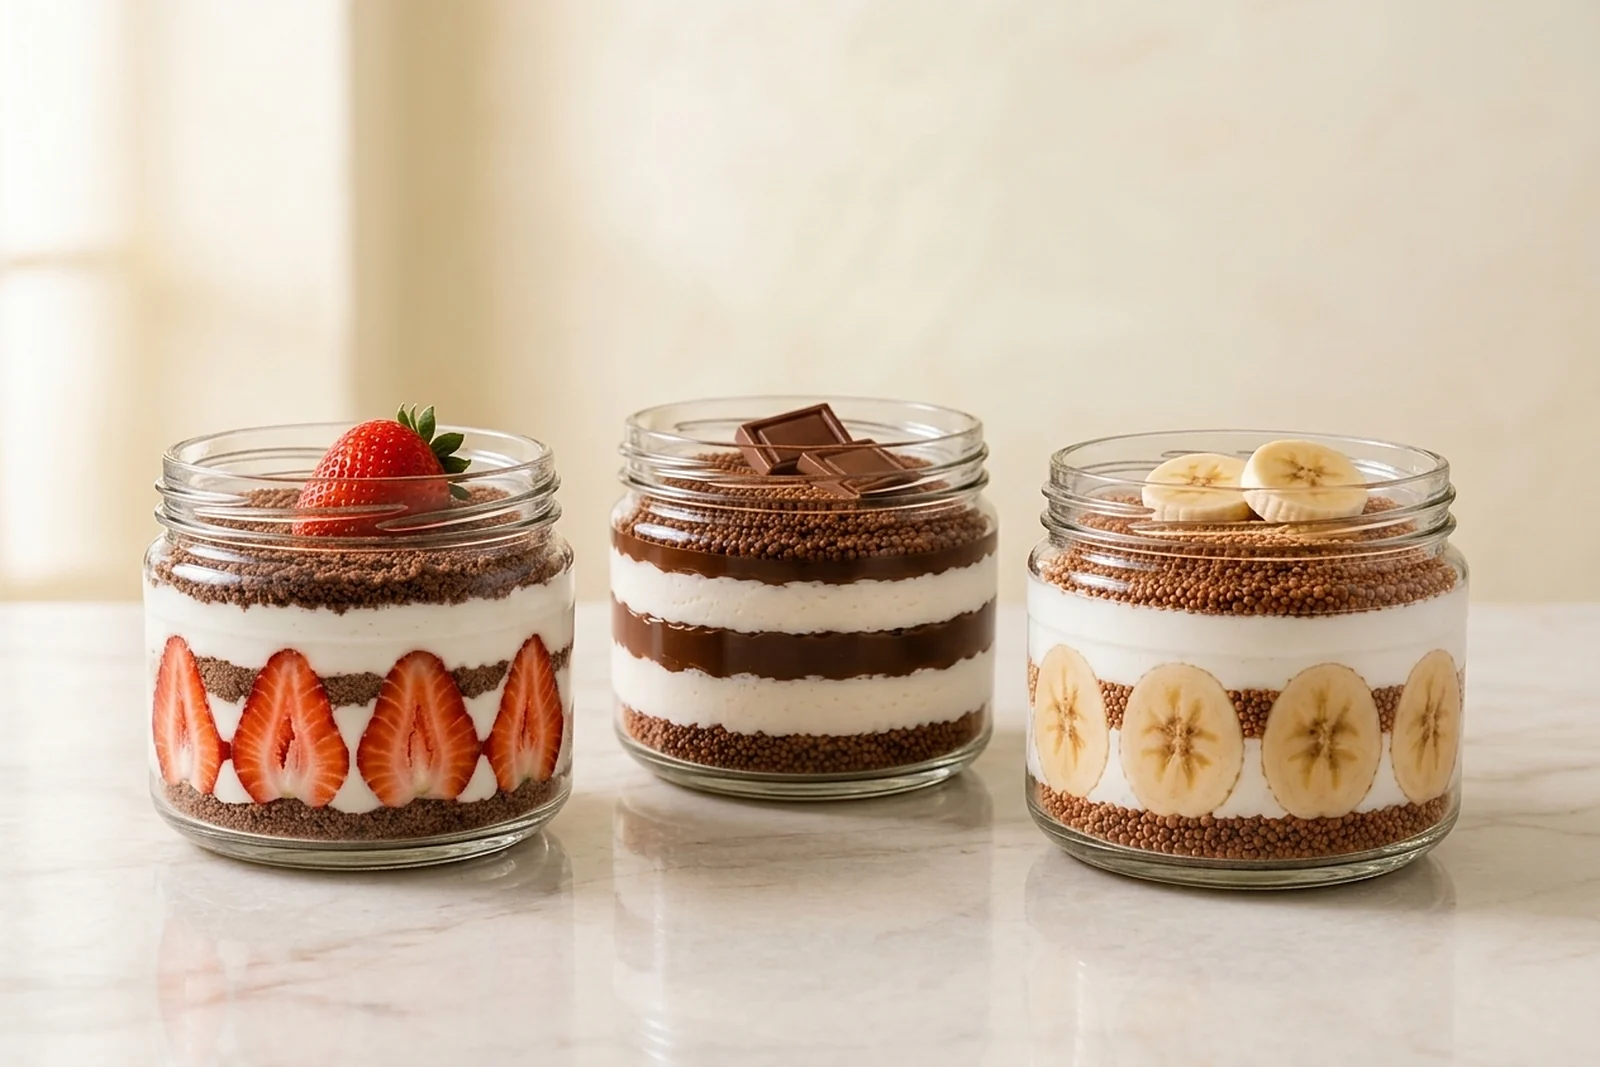
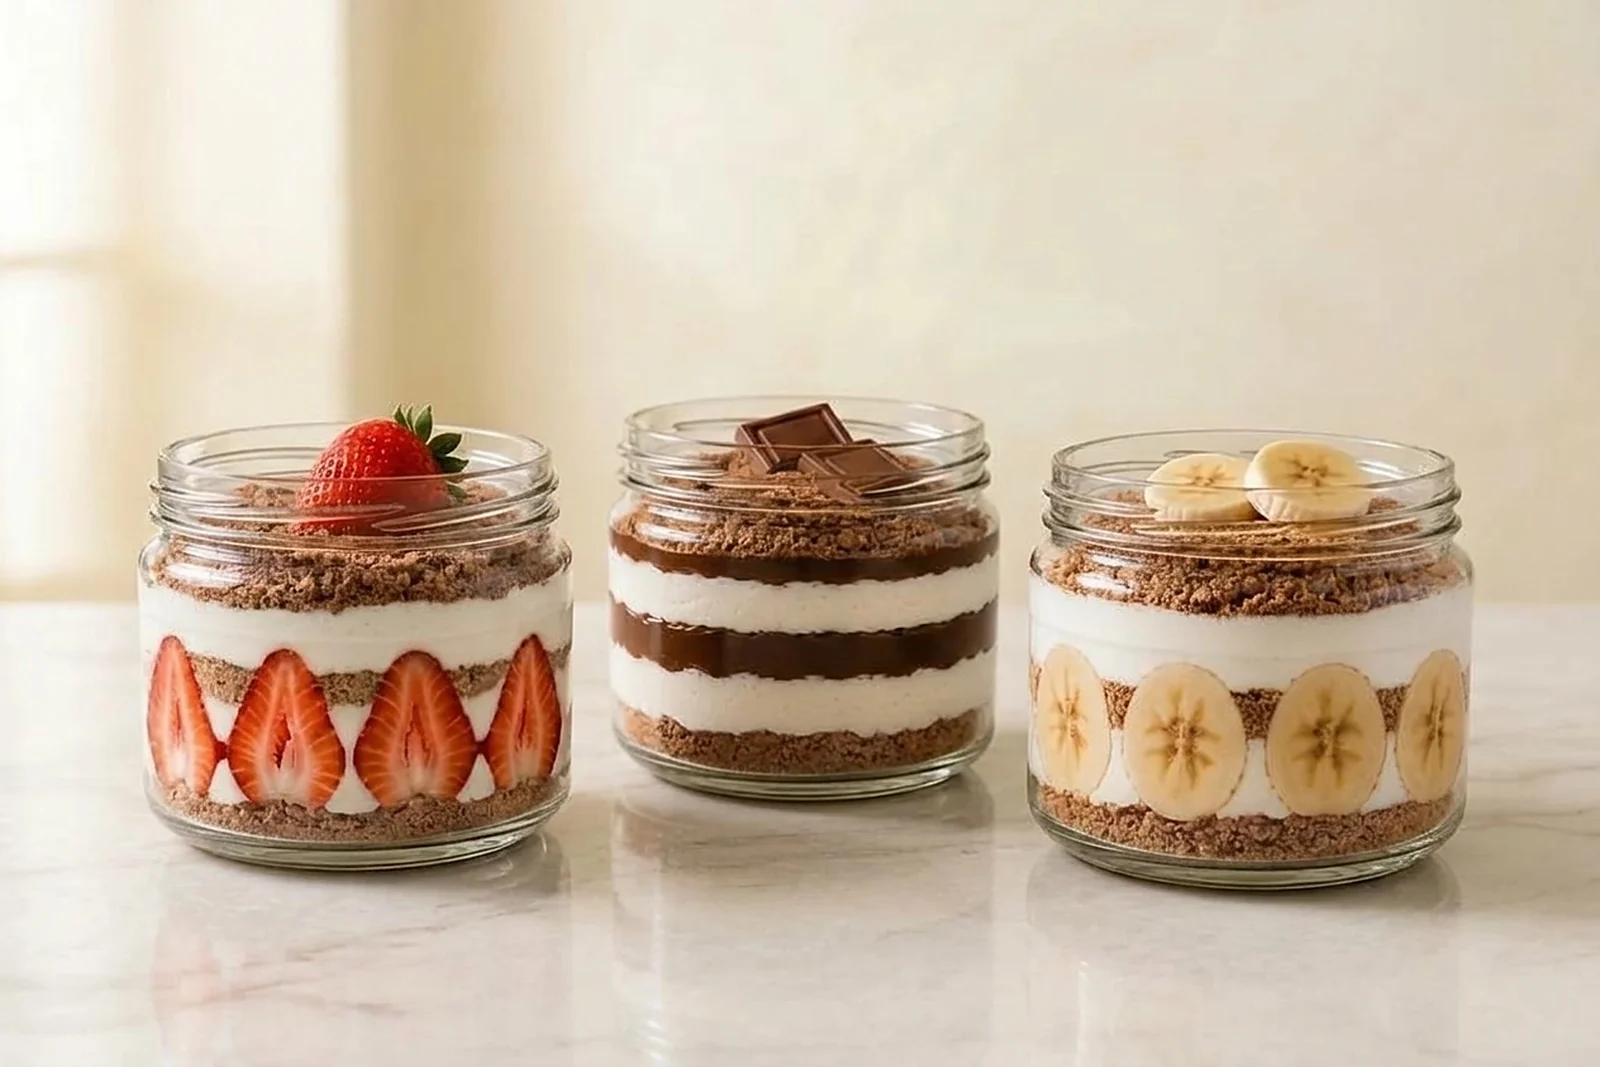
.

diff --git a/src/data/catalog.ts b/src/data/catalog.ts
@@ -14,6 +14,8 @@ export const categories: Category[] = [
   { id: 'cevizli', slug: 'cevizli', name: 'Cevizli', tagline: 'Çıtır ceviz', image: '/images/products/cevizli-magnolya.webp', tone: 'olive', order: 7, isActive: true },
   { id: 'balkabakli', slug: 'balkabakli', name: 'Balkabaklı', tagline: 'Mevsiminde güzel', image: '/images/products/balkabakli-magnolya.webp', tone: 'cream', order: 8, isActive: true },
   { id: 'red-velvet', slug: 'red-velvet', name: 'Red Velvet', tagline: 'Çilekli ve kadifemsi', image: '/images/products/cilekli-red-velvet-magnolya.webp', tone: 'blush', order: 9, isActive: true },
+  { id: 'kadayifli', slug: 'kadayifli', name: 'Kadayıflı', tagline: 'Kavrulmuş çıtır kadayıf', image: '/images/products/kadayifli-magnolya.webp', tone: 'cream', order: 10, isActive: true },
+  { id: 'meyveli', slug: 'meyveli', name: 'Meyveli', tagline: 'Limon, portakal, orman meyvesi', image: '/images/products/orman-meyveli-magnolya.webp', tone: 'blush', order: 11, isActive: true },
 ]
 
 /* ------------------------------------------------------------------ Ürünler */
@@ -351,6 +353,99 @@ const productList: Product[] = [
     isActive: true,
     isFeatured: true,
     order: 25,
+  },
+
+  /* --- Yeni ürünler (2026-11). Fiyatlar benzer ürünlere göre geçici --- */
+  {
+    id: 'orman-meyveli-magnolya',
+    slug: 'orman-meyveli-magnolya',
+    name: 'Orman Meyveli Magnolya',
+    description: 'Süt kreması, bisküvi kırıkları ve üstünde böğürtlenli orman meyvesi sosu.',
+    categoryIds: ['meyveli'],
+    price: 175,
+    image: '/images/products/orman-meyveli-magnolya.webp',
+    isActive: true,
+    isFeatured: false,
+    isNew: true,
+    order: 26,
+  },
+  {
+    id: 'limonlu-magnolya',
+    slug: 'limonlu-magnolya',
+    name: 'Limonlu Magnolya',
+    description: 'Süt kreması, bisküvi kırıkları ve üstünde ferah limon sosu.',
+    categoryIds: ['meyveli'],
+    price: 160,
+    image: '/images/products/limonlu-magnolya.webp',
+    isActive: true,
+    isFeatured: false,
+    isNew: true,
+    order: 27,
+  },
+  {
+    id: 'portakalli-magnolya',
+    slug: 'portakalli-magnolya',
+    name: 'Portakallı Magnolya',
+    description: 'Süt kreması, portakallı bisküvi kırıkları ve taze portakal dilimi.',
+    categoryIds: ['meyveli'],
+    price: 160,
+    image: '/images/products/portakalli-magnolya.webp',
+    isActive: true,
+    isFeatured: false,
+    isNew: true,
+    order: 28,
+  },
+  {
+    id: 'kadayifli-magnolya',
+    slug: 'kadayifli-magnolya',
+    name: 'Kadayıflı Magnolya',
+    description: 'Bol süt kreması, kavrulmuş çıtır kadayıf ve kadayıf tabanı.',
+    categoryIds: ['kadayifli'],
+    price: 185,
+    image: '/images/products/kadayifli-magnolya.webp',
+    isActive: true,
+    isFeatured: false,
+    isNew: true,
+    order: 29,
+  },
+  {
+    id: 'kadayifli-cikolatali-magnolya',
+    slug: 'kadayifli-cikolatali-magnolya',
+    name: 'Kadayıflı Çikolatalı Magnolya',
+    description: 'Kavrulmuş kadayıf katmanları, süt kreması ve üstünde çikolata sosu.',
+    categoryIds: ['kadayifli', 'cikolatali'],
+    price: 195,
+    image: '/images/products/kadayifli-cikolatali-magnolya.webp',
+    isActive: true,
+    isFeatured: false,
+    isNew: true,
+    order: 30,
+  },
+  {
+    id: 'lotus-soslu-magnolya',
+    slug: 'lotus-soslu-magnolya',
+    name: 'Lotus Soslu Magnolya',
+    description: 'Lotus bisküvi kırıkları, süt kreması ve üstünde akışkan Lotus sosu.',
+    categoryIds: ['lotuslu'],
+    price: 190,
+    image: '/images/products/lotus-soslu-magnolya.webp',
+    isActive: true,
+    isFeatured: false,
+    isNew: true,
+    order: 31,
+  },
+  {
+    id: 'spoonful',
+    slug: 'spoonful',
+    name: 'Spoonful',
+    description: 'Kakaolu bisküvi tabanı, bol süt kreması ve üstünde yoğun çikolatalı puding.',
+    categoryIds: ['cikolatali'],
+    price: 185,
+    image: '/images/products/spoonful.webp',
+    isActive: true,
+    isFeatured: false,
+    isNew: true,
+    order: 32,
   },
 ]
 

diff --git a/src/data/layers.ts b/src/data/layers.ts
@@ -23,6 +23,11 @@ const RV = '#cf7367' // blush-500  red velvet
 const KB = '#764a34' // cocoa-600  kakaolu bisküvi
 // Balkabağı: token'larda turuncu yok; nokta katmanı tanıtsın diye gerçek renk
 const PK = '#e3893f'
+// Yeni ürünlerin sos ve kırıkları da token'larda yok; aynı gerekçeyle gerçek renk
+const OM = '#5b2346' // orman meyvesi sosu
+const LM = '#efc94c' // limon sosu
+const PT = '#ee9a2e' // portakallı kırık
+const KD = '#c98a4b' // kavrulmuş kadayıf
 
 interface Seed {
   slug: string
@@ -211,6 +216,57 @@ const seeds: Seed[] = [
     colors: [S, CH, S, K],
     cup: { x: 72, y: [41, 49, 61, 73] },
     jar: { x: 75, y: [39, 49, 66, 81] },
+  },
+  /* --- 3. grup: 2026-11'de eklenen ürünler. Üç katmanlı olanlarda (Kadayıflı,
+         Spoonful) üstteki katman ikiye bölündü: süs ve katmanın kendisi --- */
+  {
+    slug: 'orman-meyveli-magnolya',
+    names: ['Orman meyvesi sosu', 'Magnolya kreması', 'Bisküvi kırığı', 'Bisküvi tabanı'],
+    colors: [OM, C, K, K],
+    cup: { x: 72, y: [43, 52.5, 57.5, 68] },
+    jar: { x: 74, y: [43, 52, 60, 75] },
+  },
+  {
+    slug: 'limonlu-magnolya',
+    names: ['Limon sosu', 'Magnolya kreması', 'Bisküvi kırığı', 'Bisküvi tabanı'],
+    colors: [LM, C, K, K],
+    cup: { x: 72, y: [44, 52, 57.5, 68] },
+    jar: { x: 74, y: [43, 52, 60, 75] },
+  },
+  {
+    slug: 'portakalli-magnolya',
+    names: ['Portakal dilimi', 'Magnolya kreması', 'Portakallı kırık', 'Portakallı taban'],
+    colors: [PT, C, PT, PT],
+    cup: { x: 72, y: [43, 50, 56, 69] },
+    jar: { x: 74, y: [46, 54, 61.5, 75] },
+  },
+  {
+    slug: 'kadayifli-magnolya',
+    names: ['Çıtır kadayıf', 'Kavrulmuş kadayıf', 'Magnolya kreması', 'Kadayıf tabanı'],
+    colors: [KD, KD, C, KD],
+    cup: { x: 72, y: [40, 46, 56, 68] },
+    jar: { x: 74, y: [40, 47, 60, 75] },
+  },
+  {
+    slug: 'kadayifli-cikolatali-magnolya',
+    names: ['Çikolata sosu', 'Magnolya kreması', 'Kavrulmuş kadayıf', 'Kadayıf tabanı'],
+    colors: [CH, C, KD, KD],
+    cup: { x: 72, y: [45, 52, 58, 68] },
+    jar: { x: 74, y: [47, 55, 61, 75] },
+  },
+  {
+    slug: 'lotus-soslu-magnolya',
+    names: ['Lotus sosu', 'Magnolya kreması', 'Lotus kırığı', 'Lotus tabanı'],
+    colors: [LO, C, LO, LO],
+    cup: { x: 72, y: [45, 52, 57, 68] },
+    jar: { x: 74, y: [47, 54, 61.5, 75] },
+  },
+  {
+    slug: 'spoonful',
+    names: ['Çikolata kıvrımı', 'Çikolatalı puding', 'Magnolya kreması', 'Kakaolu taban'],
+    colors: [CH, CH, C, KB],
+    cup: { x: 72, y: [40, 46, 57, 68] },
+    jar: { x: 74, y: [38, 46, 60, 73] },
   },
 ]
 

diff --git a/src/components/product/MagnolyaStage.tsx b/src/components/product/MagnolyaStage.tsx
@@ -25,6 +25,10 @@ const TONES: Record<string, [string, string]> = {
   'cikolatali-magnolya': ['#faf4f0', '#f0e3d9'],
   'lotuslu-magnolya': ['#faf4f0', '#f0e3d9'],
   'oreolu-magnolya': ['#faf5ec', '#ece0cd'],
+  'orman-meyveli-magnolya': ['#fdf3f1', '#fbe5e1'],
+  'lotus-soslu-magnolya': ['#faf4f0', '#f0e3d9'],
+  'kadayifli-cikolatali-magnolya': ['#faf4f0', '#f0e3d9'],
+  spoonful: ['#faf4f0', '#f0e3d9'],
 }
 const DEFAULT_TONE: [string, string] = ['#faf5ec', '#f4ecdf']
 

diff --git a/src/context/CatalogContext.tsx b/src/context/CatalogContext.tsx
@@ -15,7 +15,7 @@ const STORAGE_KEY = 'catalog'
  * Tohum veri her değiştiğinde artırılır. Sürüm uyuşmazsa tarayıcıda saklı
  * eski katalog atılır ve güncel menü yüklenir.
  */
-const VERSION = 12
+const VERSION = 13
 
 interface CatalogState {
   version: number

diff --git a/instagram/sablon/set-kare.py b/instagram/sablon/set-kare.py
@@ -1,0 +1,34 @@
+"""public/images/genel/<ad>.webp geniş görselinden <ad>-kare.webp (1000x1000) üretir.
+Geniş görsel 1000 genişliğe küçültülüp dikeyde ortalanır; üst boşluk duvarın üst şeridi uzatılıp yumuşatılarak,
+alt boşluk mermerin en alt 70 satırı ileri-geri yansıtılıp giderek bulanıklaştırılarak doldurulur.
+Kullanım: python3 instagram/sablon/set-kare.py ad ..."""
+import sys
+import numpy as np
+from PIL import Image, ImageFilter
+N = 1000
+for ad in sys.argv[1:]:
+    g = Image.open(f'public/images/genel/{ad}.webp').convert('RGB')
+    h = round(N * g.height / g.width); g = g.resize((N, h), Image.LANCZOS)
+    ust = (N - h) // 2; alt = N - h - ust
+    tuval = Image.new('RGB', (N, N)); tuval.paste(g, (0, ust))
+    serit = g.crop((0, 0, N, 30)).resize((N, ust + 30), Image.BICUBIC).filter(ImageFilter.GaussianBlur(4))
+    tuval.paste(serit.crop((0, 0, N, ust)), (0, 0))
+    taban = np.asarray(g.crop((0, h - 70, N, h))).astype(np.float32)
+    sira = []
+    i, yon = 69, -1
+    for _ in range(alt):  # ileri-geri yansıt
+        sira.append(i); i += yon
+        if i < 0 or i > 69: yon = -yon; i += 2 * yon
+    dolgu = taban[sira]
+    a = Image.fromarray(dolgu.clip(0, 255).astype(np.uint8))
+    b = np.asarray(a.filter(ImageFilter.GaussianBlur(8))).astype(np.float32)
+    t = np.linspace(0.3, 1, alt)[:, None, None]
+    tuval.paste(Image.fromarray((dolgu * (1 - t) + b * t).clip(0, 255).astype(np.uint8)), (0, ust + h))
+    arr = np.asarray(tuval).astype(np.float32); bl = np.asarray(tuval.filter(ImageFilter.GaussianBlur(3))).astype(np.float32)
+    for y0 in (ust, ust + h):
+        for dy in range(-6, 7):
+            y = y0 + dy
+            if 0 <= y < N:
+                w = 1 - abs(dy) / 7; arr[y] = arr[y] * (1 - w) + bl[y] * w
+    Image.fromarray(arr.clip(0, 255).astype(np.uint8)).save(f'public/images/genel/{ad}-kare.webp', 'WEBP', quality=86, method=6)
+    print(ad + '-kare', ust, alt)

diff --git a/instagram/sablon/set-yerlestir.py b/instagram/sablon/set-yerlestir.py
@@ -1,0 +1,16 @@
+"""Gemini set görselini eski görselin boyutuna getirip public/images/genel/<ad>.webp olarak yazar.
+Kullanım: python3 instagram/sablon/set-yerlestir.py ad:deneme-adi ..."""
+import sys
+from PIL import Image, ImageFilter
+for s in sys.argv[1:]:
+    ad, dn = s.split(':')
+    hedef = f'public/images/genel/{ad}.webp'
+    boy = Image.open(hedef).size
+    im = Image.open(f'yeni-gorseller/deneme/{dn}.jpg').convert('RGB')
+    w, h = im.size; r = boy[0] / boy[1]
+    if abs(w / h - r) > 0.01:  # oran farkı varsa ortadan kırp
+        if w / h > r: nw = round(h * r); im = im.crop(((w - nw) // 2, 0, (w - nw) // 2 + nw, h))
+        else: nh = round(w / r); im = im.crop((0, (h - nh) // 2, w, (h - nh) // 2 + nh))
+    im = im.resize(boy, Image.LANCZOS).filter(ImageFilter.UnsharpMask(radius=1.2, percent=40, threshold=2))
+    im.save(hedef, 'WEBP', quality=86, method=6)
+    print(ad, boy)

diff --git a/instagram/sablon/gemini-al.py b/instagram/sablon/gemini-al.py
@@ -1,0 +1,20 @@
+"""En son Gemini indirmesini yeni-gorseller/deneme/<ad>.jpg olarak alır.
+Kullanım: python3 instagram/sablon/gemini-al.py <ad> [en-fazla-saniye]"""
+import glob, os, sys, time, shutil
+from PIL import Image
+ad = sys.argv[1]; sinir = int(sys.argv[2]) if len(sys.argv) > 2 else 150
+t0 = time.time(); son = None
+while time.time() - t0 < 40:
+    fs = sorted(glob.glob(os.path.expanduser('~/Downloads/Gemini_Generated_Image_*')), key=os.path.getmtime)
+    fs = [f for f in fs if not f.endswith('.crdownload')]
+    if fs and time.time() - os.path.getmtime(fs[-1]) < sinir:
+        son = fs[-1]; break
+    time.sleep(2)
+assert son, 'yeni indirme yok'
+time.sleep(1)
+hedef = f'yeni-gorseller/deneme/{ad}.jpg'
+im = Image.open(son)
+if im.format == 'JPEG': shutil.copy(son, hedef)
+else: im.convert('RGB').save(hedef, quality=95)
+os.remove(son)
+print(ad, Image.open(hedef).size)

diff --git a/instagram/sablon/set-kiyas.py b/instagram/sablon/set-kiyas.py
@@ -1,0 +1,10 @@
+"""Set görselinin önce/sonra karşılaştırması: üstte tam görseller, altta yakın kırpım.
+Kullanım: python3 set-kiyas.py kaynak.png yeni.jpg cikti.jpg x0 y0 (yakın kırpımın kaynak koordinatı)"""
+import sys
+from PIL import Image
+a = Image.open(sys.argv[1]).convert('RGB'); b = Image.open(sys.argv[2]).convert('RGB').resize(a.size)
+x0, y0 = int(sys.argv[4]), int(sys.argv[5])
+W = Image.new('RGB', (1610, 540 + 460), 'white')
+W.paste(a.resize((800, round(800 * a.height / a.width))), (0, 0)); W.paste(b.resize((800, round(800 * a.height / a.width))), (810, 0))
+W.paste(a.crop((x0, y0, x0 + 800, y0 + 450)), (0, 545)); W.paste(b.crop((x0, y0, x0 + 800, y0 + 450)), (810, 545))
+W.save(sys.argv[3], quality=88)

diff --git a/instagram/sablon/yan-yana.py b/instagram/sablon/yan-yana.py
@@ -1,0 +1,11 @@
+"""Görselleri aynı yükseklikte yan yana koyar. Kullanım: python3 yan-yana.py cikti.jpg yukseklik g1 g2 ..."""
+import sys
+from PIL import Image, ImageDraw
+out, H = sys.argv[1], int(sys.argv[2])
+ims = []
+for p in sys.argv[3:]:
+    im = Image.open(p).convert('RGB'); im = im.resize((round(im.width * H / im.height), H)); ims.append((p, im))
+W = Image.new('RGB', (sum(i.width for _, i in ims) + 10 * (len(ims) - 1), H + 22), 'white'); d = ImageDraw.Draw(W); x = 0
+for p, im in ims:
+    W.paste(im, (x, 22)); d.text((x + 4, 4), p.split('/')[-1], fill='black'); x += im.width + 10
+W.save(out, quality=88)

diff --git a/instagram/gemini-komutlari.md b/instagram/gemini-komutlari.md
@@ -251,8 +251,26 @@ Bu yolla 2026-11-11'de yenilenenler (ara görseller `yeni-gorseller/deneme/yeni3
 - Stil örneğindeki tatlılar kopyalanabiliyor: Klasik Üçlü'yü örnek verince Karışık Dörtlü'nün bir kabı çikolata katmanlı oldu, Beyaz Çikolatalı'da küp muz dilime döndü. Çözüm: kapları soldan sağa tek tek tarif etmek ya da içeriği aynı olan bir örnek seçmek.
 - Kırık rengi için seçenek yazmak ("tea biscuit, cocoa or Oreo") çay bisküvili kaplarda kakaolu kırık ve çikolata katmanı yerine kırık üretti; her sete tek bir kırık türü yazılmalı.
 - Tek bir süs yanlışsa (Vitrin'de cevizin çileğe dönmesi) yalnızca o süsü değiştiren hedefli bir tur yetiyor.
-- Kareler (`*-kare.webp`, 1000×1000) Gemini'siz türetilir: `scratchpad/kare-yap.py` mantığı — geniş görsel 1000 genişliğe küçültülüp dikeyde ortalanır, üst boşluk duvar şeridi uzatılıp yumuşatılarak, alt boşluk mermerin en alt 70 satırı ileri-geri yansıtılıp bulanıklaştırılarak doldurulur.
+- Kareler (`*-kare.webp`, 1000×1000) Gemini'siz türetilir: `python3 instagram/sablon/set-kare.py <ad>` — geniş görsel 1000 genişliğe küçültülüp dikeyde ortalanır, üst boşluk duvar şeridi uzatılıp yumuşatılarak, alt boşluk mermerin en alt 70 satırı ileri-geri yansıtılıp bulanıklaştırılarak doldurulur.
 - `og-cover.jpg` 1200×630 JPEG olarak yazılır.
+- 2026-11-14 kırık inceltme turu: ilk turda kırıklar birçok sette boncuk kaldı (Beyaz Çikolatalı, Kakaolu Üçlü/Dörtlü cup, Karışık Dörtlü kavanoz, Vitrin, og-cover). Mevcut set görseli tek başına verilip ürünlerdeki kırık metniyle ("Change only the texture of the ... crumbs; All N jars ... stay exactly as they are ... do not zoom in ... Same image size and aspect ratio (3:2 landscape)") tek turda düzeldi. `python3 instagram/sablon/set-yerlestir.py <ad>:<deneme>` yerine koyar.
+- Vitrin'de "walnut crumbs" da yazınca öndeki cevizli kavanoz baştan sona kırıkla doldu. "Inside every jar the layers stay exactly as they are ... Do not add crumbs where there is cream" ile düzgün çıktı.
+
+## Yeni ürünler (2026-11-14)
+
+Kullanıcının çekimi (`menuresimler/plastik 7`, `kavanoz 7`: bej zemin, çapraz gölge, sarımsı krema, boncuk kırık) bizim standarda çevrildi. Kopyalar `yeni-gorseller/yeni7/<slug>-cup|kavanoz.jpg`.
+
+1. **Kupa:** 1. görsel `temel-kupa.jpg`, 2. görsel ürünün kendi cup fotoğrafı + numaralı katman listesi ("with exactly these horizontal layers from top to bottom, in the same proportions as in the second photo: (1) ... (5) ...") + beyaz krema ve ince kırık tarifi.
+2. Gerekirse düzeltme turu (aşağıda).
+3. **Kavanoz:** 1. görsel `temel-kavanoz.png`, 2. görsel son kupa + aynı numaralı katman listesi.
+4. `site-kare.py` ile 1100×1100 webp (kupa `0.94559 -126.54 219.32`, kavanoz `0.930909 0 0`).
+
+Bulgular:
+- Orijinalden gelen krema sarımsı/vanilya benekli ve kırıklar boncuk kopyalanabiliyor (Orman Meyveli, Lotus Soslu, Kadayıflı Çikolatalı). Tek görselli "Change only the crumb texture and the cream color" turu düzeltti.
+- Kadayıflı'da taban da kadayıf; Gemini tabanı bisküvi kırığı yaptı. "Change only the beige crumb base ... it becomes the same toasted kadayif as the layer on top" ile düzeldi. Kadayıflılarda komuta "There are no biscuit crumbs" eklenmeli.
+- Spoonful'da oranlar kaydı (ince çikolata, kalın taban). "Twice as thick" aşırı geldi; oranı kesirle yazmak ("top quarter / middle half / bottom fifth") daha iyi oldu.
+- Portakal dilimi ve Lotus bisküvisi kavanozda büyüyebilir: "the same size as in the second photo relative to the container, not oversized".
+- Gemini'de f.celebi402 hesabı yaklaşık 15 görselden sonra "Kullanım kotanız azalıyor" uyarısı veriyor.
 
 ## B ve C grupları (sonra)
 
